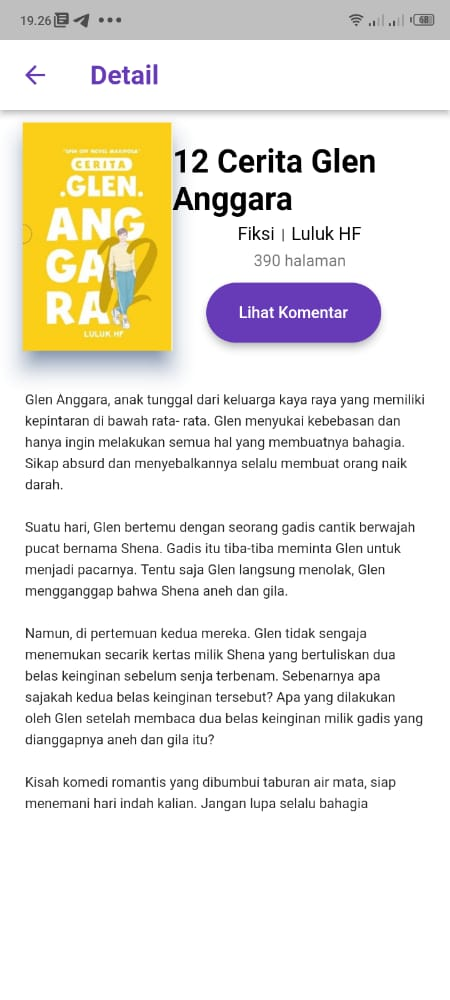
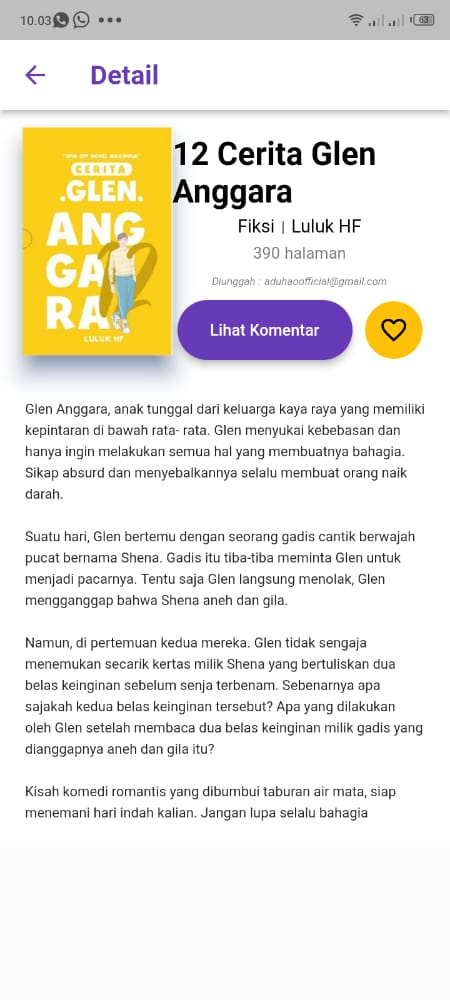
update assets

Changed region(s): [[0.0311, 0.124, 0.9644, 0.837], [0.0933, 0.0, 0.2178, 0.031]]

diff --git a/README.md b/README.md
@@ -10,58 +10,101 @@ Anggota Kelompok : <br>
 ## Judul Aplikasi : Baca Buku
 
 ## Desain Mockup
+
 Link : https://www.figma.com/file/AAL42KbD9YQ8oXM2wYKgMA/Untitled?node-id=0%3A1
 
 <span><img src="assets/pages/figma.jpg"></span>
 
 ## Hasil
+
 ### Halaman login (Ratu Veronica)
+
 <span><img src="assets/pages/1.jpeg" width= "200"></span>
+
 ### Halaman register (Ratu Veronica)
+
 <span><img src="assets/pages/2.jpeg" width= "200"></span>
+
 ### Halaman beranda (Nurul Huda)
+
 <span><img src="assets/pages/3.jpeg" width= "200"></span>
+
 ### Halaman telusuri (Ratu Veronica)
+
 <span><img src="assets/pages/4.jpeg" width= "200"></span>
+
 ### Halaman tulis (Putri Novika)
+
 <span><img src="assets/pages/5.jpeg" width= "200"></span>
+
 ### Halaman profil (Putri Novika)
+
 <span><img src="assets/pages/6.jpeg" width= "200"></span>
+
 ### Halaman detail novel (Nurul Huda)
+
 <span><img src="assets/pages/7.jpeg" width= "200"></span>
+
 ### Halaman favoritku (Nurul Huda)
+
 <span><img src="assets/pages/8.jpeg" width= "200"></span>
+
 ### Halaman komentar (Putri Novika)
+
 <span><img src="assets/pages/9.jpeg" width= "200"></span>
-### Halaman bookmark (Nurul  Huda)
+
+### Halaman bookmark (Nurul Huda)
+
 <span><img src="assets/pages/10.jpeg" width= "200"></span>
+
 ### Halaman tulisanku (Putri Novika)
+
 <span><img src="assets/pages/11.jpeg" width= "200"></span>
 
-
 ## OUTPUT APLIKASI
+
 ### Halaman login
+
 <span><img src="assets/SS/1.jpeg" width= "200"></span>
 <span><img src="assets/SS/2.jpeg" width= "200"></span>
 
 ### Halaman register
+
 <span><img src="assets/SS/3.jpeg" width= "200"></span>
 
 ### Halaman Home
+
 <span><img src="assets/SS/4.jpeg" width= "200"></span>
 
 ### Halaman Tambah Buku
+
 <span><img src="assets/SS/9.jpeg" width= "200"></span>
 <span><img src="assets/SS/10.jpeg" width= "200"></span>
 
 ### Halaman Detail Buku
+
 <span><img src="assets/SS/5.jpeg" width= "200"></span>
 
 ### Halaman Komentar
+
 <span><img src="assets/SS/6.jpeg" width= "200"></span>
 
 ### Halaman Tambah Komentar
+
 <span><img src="assets/SS/7.jpeg" width= "200"></span>
 
+### Halaman Favorite
+
+<span><img src="assets/SS/13.jpeg" width= "200"></span>
+
 ### Halaman Profil
+
 <span><img src="assets/SS/8.jpeg" width= "200"></span>
+
+### Authentication
+
+<span><img src="assets/SS/11.jpeg" width= "1000"></span>
+
+### Cloud Firestore
+
+<span><img src="assets/SS/12.jpeg" width= "1000"></span>
